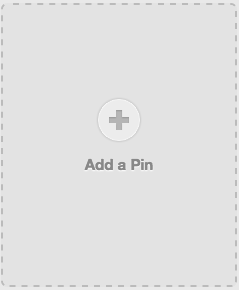
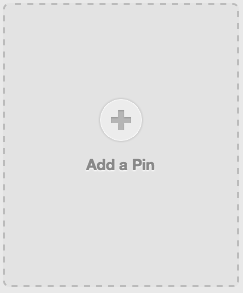
added modal for creating a new board. Styled pins display on home screen and cleared out all seed data.

diff --git a/app/assets/stylesheets/scaffolds.scss b/app/assets/stylesheets/scaffolds.scss
@@ -19,11 +19,14 @@ pre {
 }
 
 a {
+  text-decoration: none;
   color: #000;
   &:visited {
+    text-decoration: none;
     color: #666;
   }
   &:hover {
+    text-decoration: none;
     color: #fff;
     background-color: #000;
   }
@@ -82,6 +85,7 @@ div {
     display: inline-block;
     margin: 1em;
     width: 100%;
+
 }
 
 .boardContainer {
@@ -89,9 +93,8 @@ div {
   box-shadow: 0 1px 2px 0 rgba(0, 0, 0, 0.22);
   border-radius: 6px;
   position: relative;
-  width: 256px;
+  width: 236px;
 }
-
 
 .boardName {
 -webkit-font-smoothing: antialiased;
@@ -110,4 +113,21 @@ margin: 0 3px 6px;
 position: relative;
 height: auto;
 padding: 5px 0px 3px 10px;
+}
+
+.pinimg {
+  border-radius: 6px 6px 0px 0px;
+  }
+
+.pin{
+  border-top: 1px;
+  border-style: solid;
+  border-color: #E3E3E3;
+  text-decoration: none;
+  color: #999;
+  line-height: 15px;
+  font-size: 11px;
+  font-weight: bold;
+  padding: 5px 0px 5px 10px;
+  text-align: left;
 }

diff --git a/app/assets/stylesheets/users.scss b/app/assets/stylesheets/users.scss
@@ -1,3 +1,6 @@
 // Place all the styles related to the Users controller here.
 // They will automatically be included in application.css.
 // You can use Sass (SCSS) here: http://sass-lang.com/
+.profileImage {
+    border-radius: 200px;
+  }

diff --git a/app/uploaders/image_uploader.rb b/app/uploaders/image_uploader.rb
@@ -26,15 +26,17 @@ class ImageUploader < CarrierWave::Uploader::Base
 
   # Process files as they are uploaded:
   process :resize_to_fit => [640, -1]
-  #
 
-  version :board do
+  version :pinsize do
     process :resize_to_fit => [236, -1]
   end
 
-  # Create different versions of your uploaded files:
+  version :board do
+    process :resize_to_fit => [216, 146]
+  end
+
   version :thumb do
-    process :resize_to_fit => [50, -1]
+    process :resize_to_fit => [69, 69]
   end
 
   # Add a white list of extensions which are allowed to be uploaded.

diff --git a/app/controllers/boards_controller.rb b/app/controllers/boards_controller.rb
@@ -42,7 +42,7 @@ class BoardsController < InheritedResources::Base
   def destroy
     @board.destroy
     respond_to do |format|
-      format.html { redirect_to user_boards_url, notice: 'Board was successfully destroyed.' }
+      format.html { redirect_to user_url(@user), notice: 'Board was successfully destroyed.' }
     end
   end
 

diff --git a/app/uploaders/avatar_uploader.rb b/app/uploaders/avatar_uploader.rb
@@ -24,7 +24,7 @@ class AvatarUploader < CarrierWave::Uploader::Base
   # end
 
   # Process files as they are uploaded:
-  process :resize_to_fit => [250, 200]
+  process :resize_to_fit => [75, 75]
   #
   # def scale(width, height)
   #   # do something

diff --git a/app/controllers/welcome_controller.rb b/app/controllers/welcome_controller.rb
@@ -1,4 +1,5 @@
 class WelcomeController < ApplicationController
   def index
+    @boards = Board.all
   end
 end
